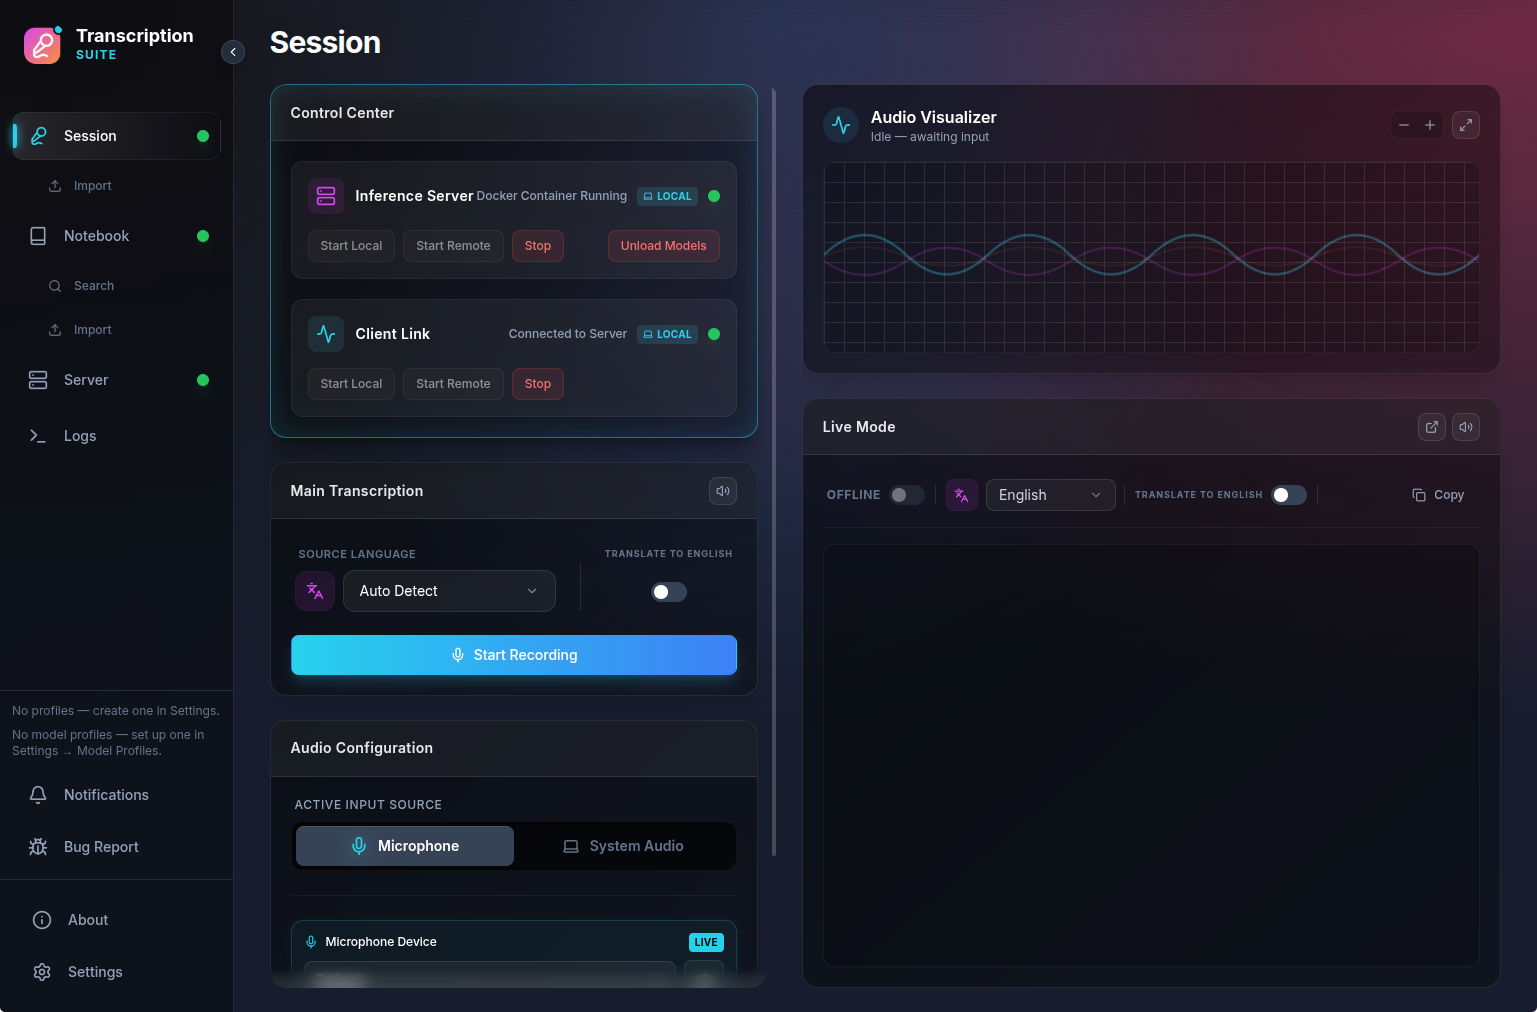
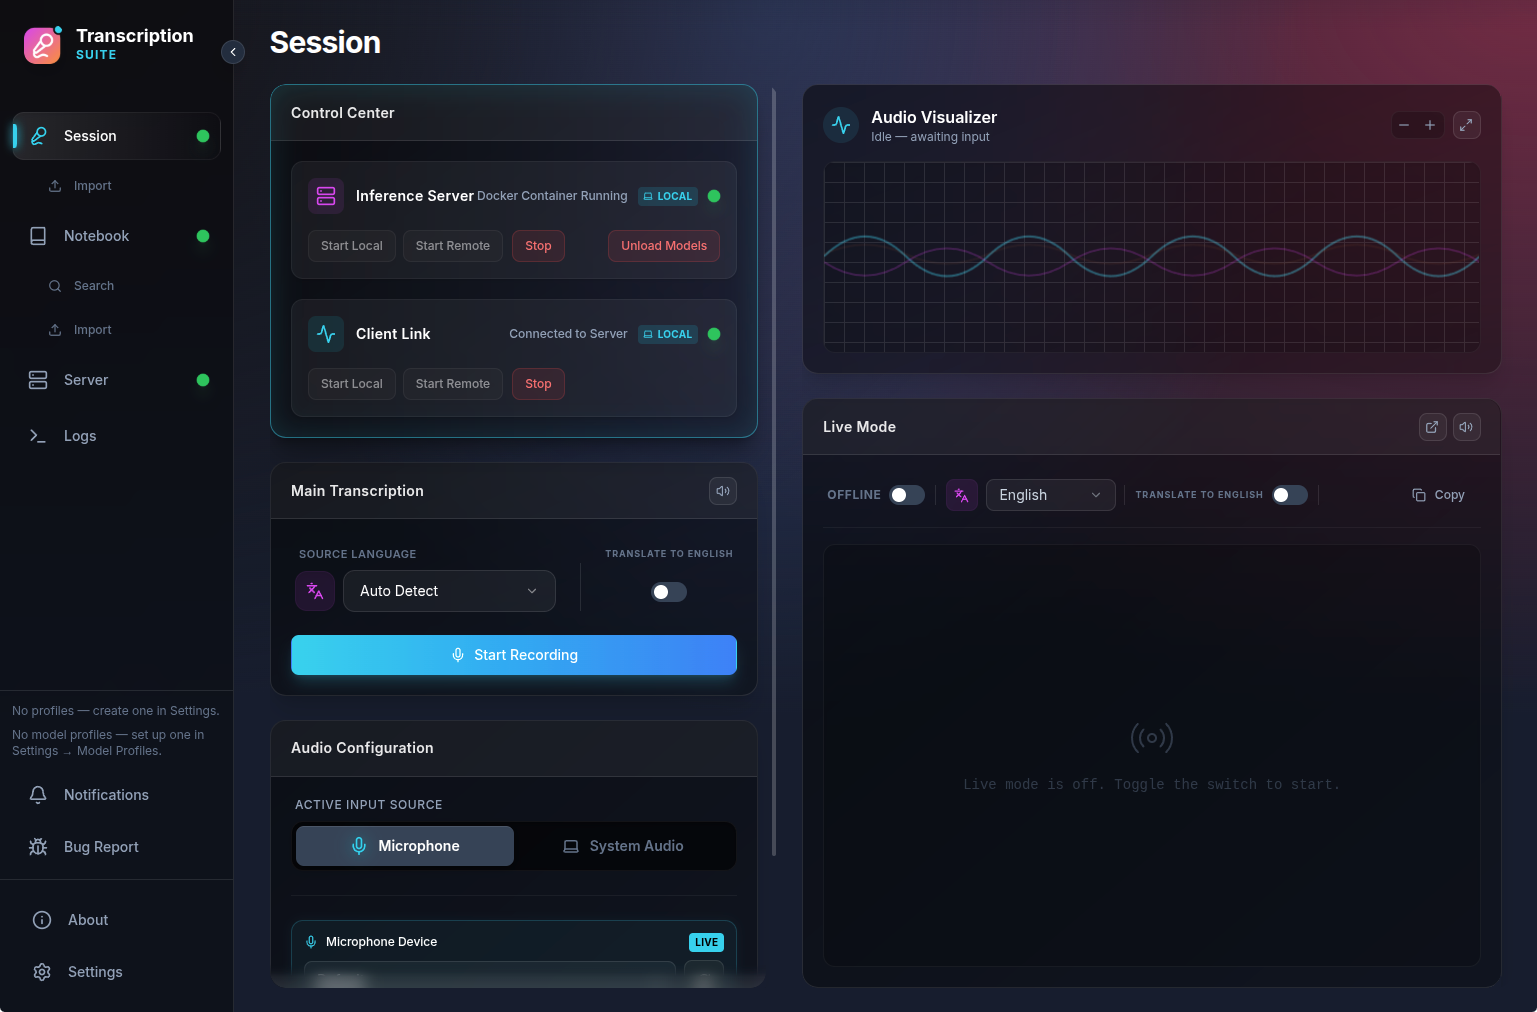
docs: add macOS FFmpeg prerequisite for the Metal build and refresh README screenshot
* docs(readme): FFmpeg prerequisite block in section 2.1 with brew install ffmpeg, mirroring the section 2.5.1 Linux FUSE2 prerequisite pattern (GH #255)
* docs(api): add ffmpeg_available to the /api/status row in api-contracts-server.md
* docs(assets): update shot-1.png screenshot

diff --git a/docs/README.md b/docs/README.md
@@ -185,6 +185,14 @@ Apple Silicon transcription runs on Apple's **Metal + MLX** GPU stack, bundled r
 
 > *Naming note: wherever the app says "Metal server", what actually runs is **MLX** - Apple's machine-learning framework, which uses Metal as its GPU layer. MLX only exists on Apple Silicon, which is why Intel Macs ([§2.2](#22-macos-intel)) can't use this path.*
 
+**Prerequisite - FFmpeg:** the server uses [FFmpeg](https://ffmpeg.org/) to decode compressed audio (M4A, MP3, FLAC, OGG - everything except WAV), and macOS doesn't ship it. Install it once with [Homebrew](https://brew.sh/):
+
+```bash
+brew install ffmpeg
+```
+
+Without it the server still starts, but importing anything other than a WAV file fails with a decode error. If you install FFmpeg while the app is running, restart the Metal server afterwards.
+
 **Install steps:**
 
 1. From the [Releases](https://github.com/homelab-00/TranscriptionSuite/releases) page, download **`TranscriptionSuite-<version>-arm64-mac-metal.dmg`** (~3-5 GB) - the **bundled** build with the dashboard **and** the Python/MLX server pre-installed. (Careful: there is also a thin `arm64-mac.dmg` without the server - see the tip below.)

diff --git a/docs/api-contracts-server.md b/docs/api-contracts-server.md
@@ -20,7 +20,7 @@
 |--------|------|------|---------|
 | GET | `/health` | none | Liveness probe (`{status, service}`) |
 | GET | `/ready` | user | Readiness — 200 when model loaded/disabled or Live Mode active, else 503 |
-| GET | `/api/status` | none | Detailed status: version, models, features, `ready`, `gpu_available`, `gpu_error` |
+| GET | `/api/status` | none | Detailed status: version, models, features, `ready`, `gpu_available`, `ffmpeg_available`, `gpu_error` |
 
 ### Authentication (`/api/auth`)
 | Method | Path | Auth | Purpose |